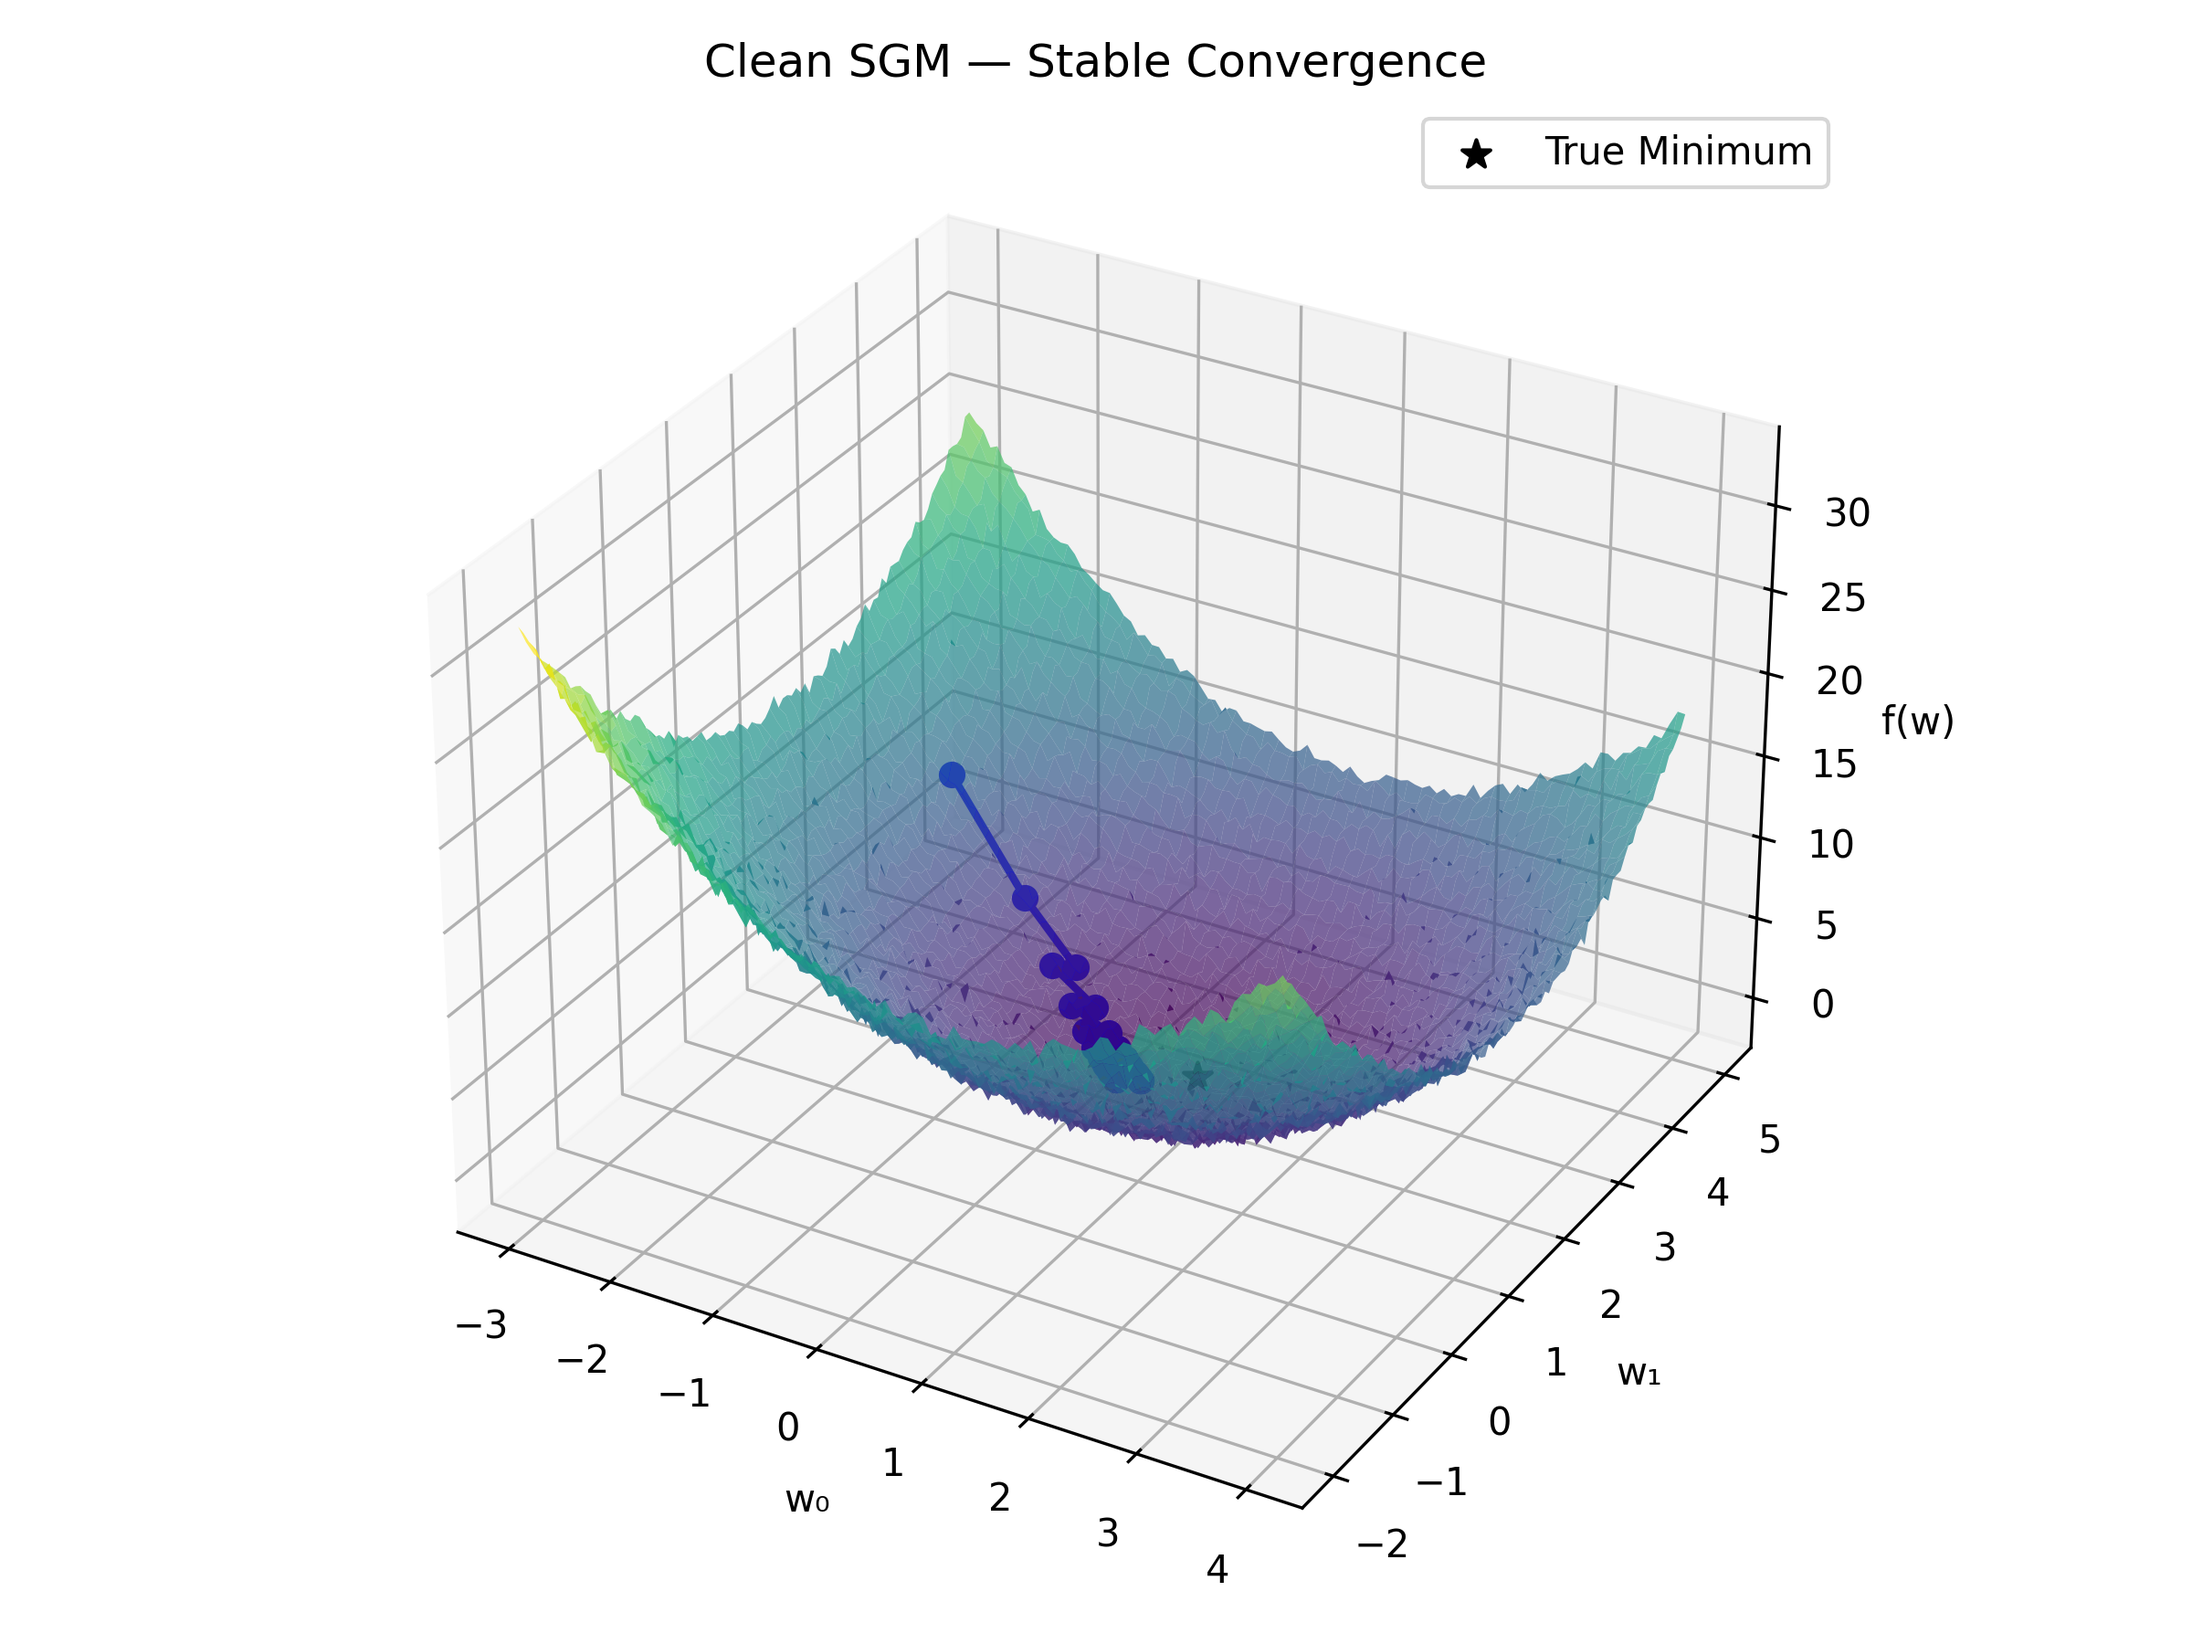
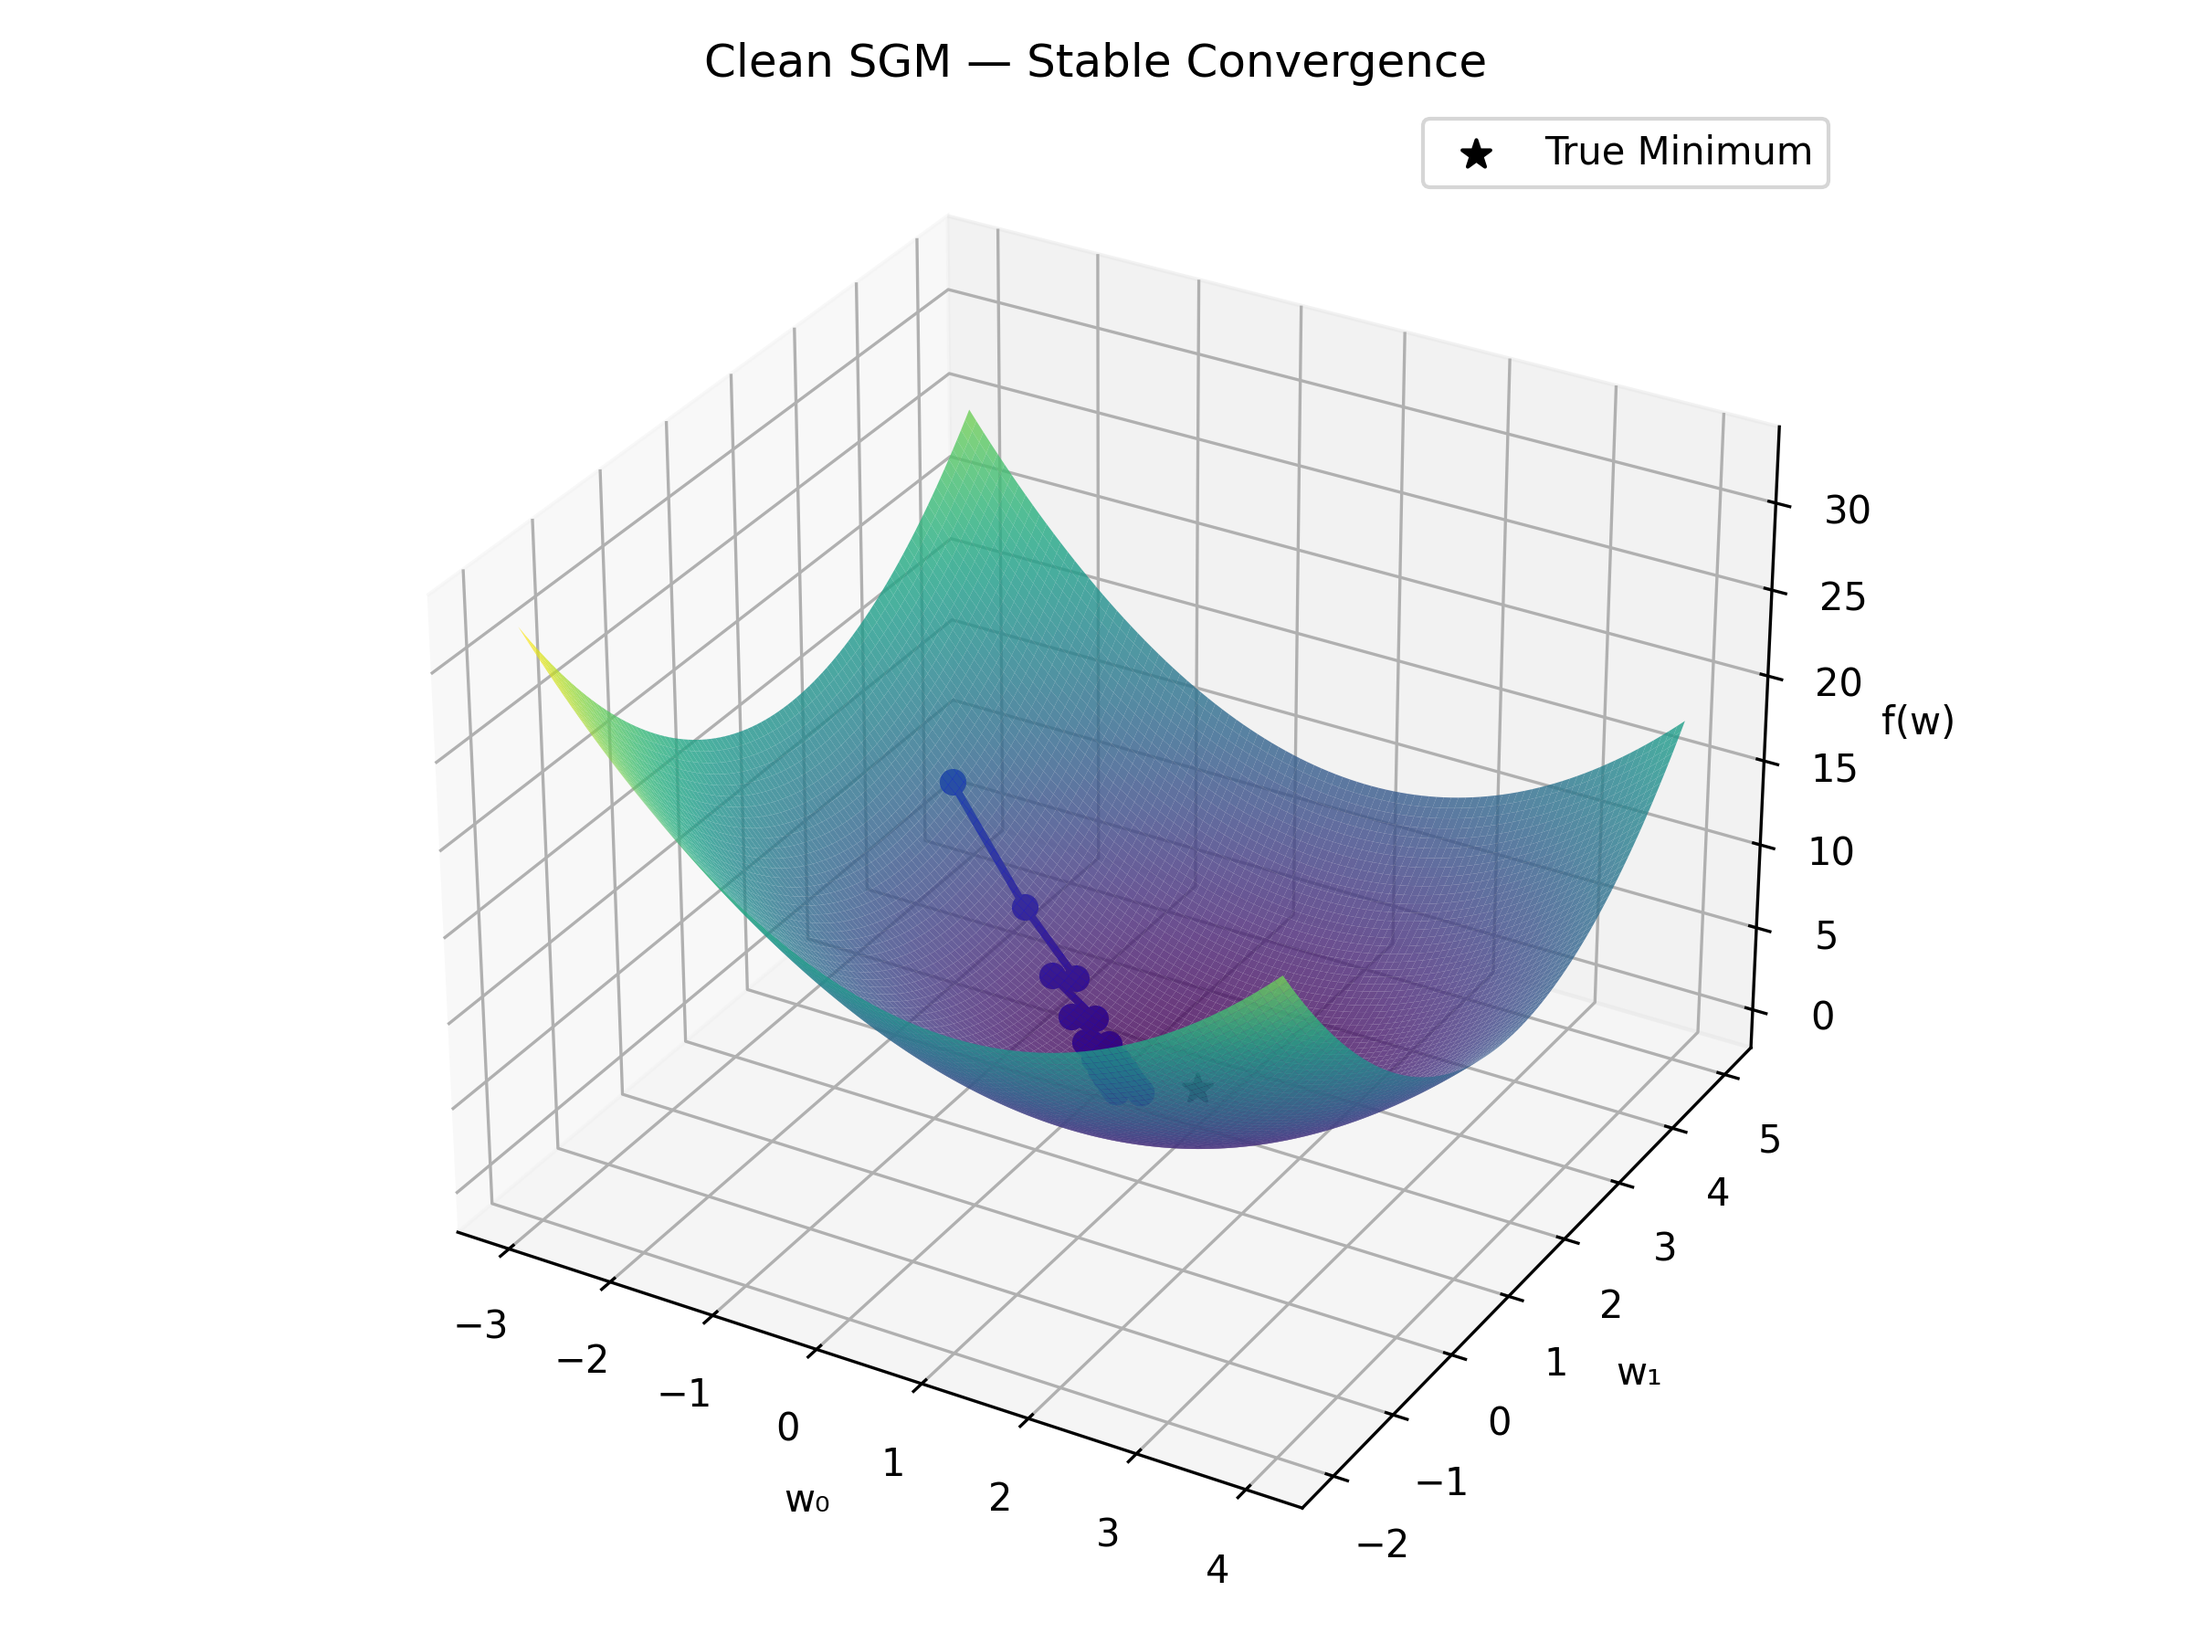
DRV: RE-IMAGINING NOISE

diff --git a/GM-SGM_vs_SGM/gm_vs_sgm.py b/GM-SGM_vs_SGM/gm_vs_sgm.py
@@ -137,7 +137,8 @@ Z = f(W0, W1)
 def plot_3d(traj, title, filename, color, cmap):
     fig = plt.figure(figsize=(8,6))
     ax = fig.add_subplot(111, projection='3d')
-    ax.plot_surface(W0, W1, Z + 0.3*np.random.randn(*Z.shape), cmap=cmap, alpha=0.7)
+    ax.plot_surface(W0, W1, Z, cmap=cmap, alpha=0.8, rstride=1, cstride=1, edgecolor='none')
+
     ax.plot(traj[:,0], traj[:,1], f(traj[:,0], traj[:,1]), '-o', color=color, linewidth=2)
     ax.scatter(1, 2, f(1,2), c='black', s=60, marker='*', label='True Minimum')
     ax.set_xlabel('w₀'); ax.set_ylabel('w₁'); ax.set_zlabel('f(w)')
@@ -196,7 +197,7 @@ df.to_csv("results/sgm_gmsgm_gross_corruption_trajectories.csv", index=False)
 # 13. Summary
 # ====================================================
 
-print("✅ Done. Results saved in 'results/' folder:")
+print(" Done. Results saved in 'results/' folder:")
 print(" - sgm_clean_3d.png")
 print(" - sgm_gross_corruption_3d.png")
 print(" - gm_sgm_gross_corruption_3d.png")
